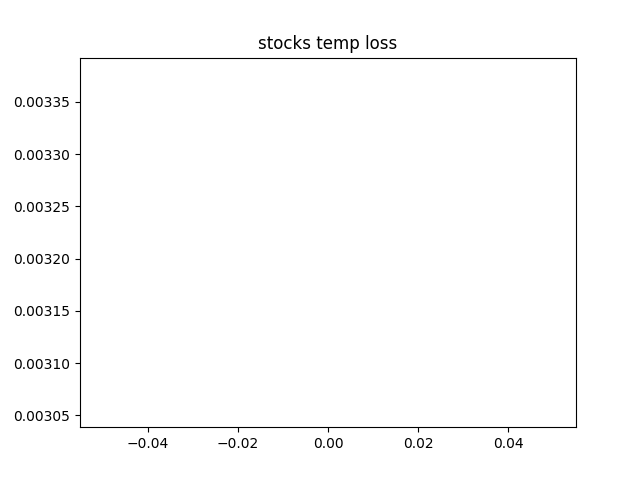
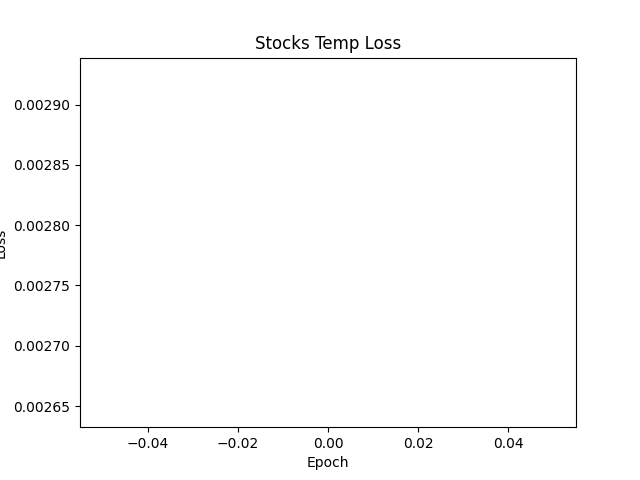
added t+1 predictions

diff --git a/Assignment2/SaP500/SP500AE.py b/Assignment2/SaP500/SP500AE.py
@@ -5,6 +5,7 @@ import torch
 from torch.utils.data import DataLoader
 
 import LSTM_AE as AE
+import SP500Predictor as predAE
 import argparse
 import numpy as np
 import torch.nn as nn
@@ -14,7 +15,7 @@ import pandas as pd
 
 parser = argparse.ArgumentParser(description="Arguments of Toy AE")
 parser.add_argument('--batch_size', type=int, default=32, help="batch size")
-parser.add_argument('--epochs', type=int, default=1, help="number of epochs")
+parser.add_argument('--epochs', type=int, default=5, help="number of epochs")
 parser.add_argument('--optimizer', default='Adam', type=str, help="optimizer to use")
 parser.add_argument('--hidden_size', type=int, default=100, help="lstm hidden size")
 parser.add_argument('--num_of_layers', type=int, default=3, help="num of layers")
@@ -75,6 +76,10 @@ class SP500AE():
                             args.output_size)
         self.optimizer = torch.optim.Adam(self.AE.parameters(), args.lr) if (
                     args.optimizer == "Adam") else torch.optim.SGD(self.AE.parameters(), lr=args.lr)
+        self.AEPred = predAE.LSTMAE(args.input_size, args.num_of_layers, args.seq_size-1, args.hidden_size, args.dropout,
+                            args.output_size)
+        self.optimizerPred = torch.optim.Adam(self.AEPred.parameters(), args.lr) if (
+                    args.optimizer == "Adam") else torch.optim.SGD(self.AEPred.parameters(), lr=args.lr)
 
         print(f"using {self.device} as computing unit")
 
@@ -101,7 +106,52 @@ class SP500AE():
                 if ind % 100 == 0:
                     self.plotSignal(currX[0])
             lossArr.append(np.mean(np.asarray(currLoss)))
-            self.plotLoss(lossArr)
+            self.plotLoss(lossArr, "Stocks Temp Loss")
+
+        if saveNet:
+            torch.save(self.AE.state_dict(), netDir)
+            print(f"Finished training. Saving net at {netDir}")
+        else:
+            print(f"Finished training. Not saving net")
+
+        finalData = validateData.unsqueeze(2)
+        return nn.MSELoss().forward(self.AE(finalData), finalData).detach().numpy()
+
+    def trainPredict(self, trainLoader, validateData, saveNet=False):
+        self.AEPred.to(self.device)
+        print("Starting Train For Prediction")
+        if saveNet:
+            print("Will save net!")
+        lossArr = []
+        lossReconArr = []
+        lossPredArr = []
+        for epoch in range(self.epochs):
+            print(f"this is epoch number {epoch + 1}")
+            currLoss = []
+            currLossRecon = []
+            currLossPred = []
+            for ind, tensor in enumerate(trainLoader):
+                print(f"this is iteration number {ind + 1}/{len(trainLoader)} for epoch number {epoch + 1}/{args.epochs}")
+                currX = tensor.unsqueeze(2)[:,: -1]
+                currY = tensor.unsqueeze(2)[:,1 :]
+
+                self.optimizerPred.zero_grad()
+                currX.to(self.device)
+                output, pred = self.AEPred(currX)
+                lossRecon = nn.MSELoss().forward(output, currX)
+                lossPred = nn.MSELoss().forward(pred.unsqueeze(2), currY)
+                loss = lossPred + lossRecon
+                loss.backward()
+                self.optimizerPred.step()
+                currLoss.append(loss.item())
+                currLossRecon.append(lossRecon.item())
+                currLossPred.append(lossPred.item())
+                if ind % 100 == 0:
+                    self.plotSignal(currX[0])
+            lossArr.append(np.mean(np.asarray(currLoss)))
+            lossReconArr.append(np.mean(np.asarray(currLossRecon)))
+            lossPredArr.append(np.mean(np.asarray(currLossPred)))
+            self.plotPred(lossArr, lossReconArr, lossPredArr)
 
         if saveNet:
             torch.save(self.AE.state_dict(), netDir)
@@ -156,14 +206,19 @@ class SP500AE():
         plt.savefig(f"Plots/ReconstructCrossVal.png")
         plt.show()
 
-    def plotLoss(self, loss):
+    def plotLoss(self, loss, title):
         plt.figure()
         plt.plot(loss)
         plt.xlabel("Epoch")
         plt.ylabel("Loss")
-        plt.title("Stocks Temp Loss")
-        plt.savefig(f"Plots/TempLossPlot.png")
+        plt.title(title)
+        plt.savefig(f"Plots/{title}.png")
         plt.show()
+
+    def plotPred(self, totalLoss, reconLoss, predLoss):
+        self.plotLoss(totalLoss, "Total Loss")
+        self.plotLoss(reconLoss, "Reconstruction Loss")
+        self.plotLoss(predLoss, "Prediction Loss")
 
 
 
@@ -205,5 +260,14 @@ def crossValidate(data, k):
     print(f"overall time is {(endTime - startTime)/60} minutes")
     sp500.plotCrossVal(DataLoader(testTensor, 1, drop_last=True))
 
-crossValidate(parseData(),4)
+def runPrediction():
+    data, test = splitData(parseData(), 1)
+    SP500AE().trainPredict(DataLoader(data[0], args.batch_size, drop_last=True), test)
+
+
+
+# crossValidate(parseData(),4)
 # plotGoogleAmazon()
+runPrediction()
+
+#TODO: change date to time!

diff --git a/Assignment2/SaP500/SP500Predictor.py b/Assignment2/SaP500/SP500Predictor.py
@@ -30,7 +30,7 @@ class Decoder(nn.Module):
     def forward(self, x: torch.tensor):
         x = x.repeat(1, self.seq_size, 1)
         output, (hidden, _) = self.lstmDecoder(x)
-        return self.linear(output), self.linearPred(hidden)
+        return self.linear(output), self.linearPred(hidden).squeeze()
 
 class LSTMAE(nn.Module):
     def __init__(self, input_size, num_of_layers, seq_size, hs_size, dropout, output_size):
